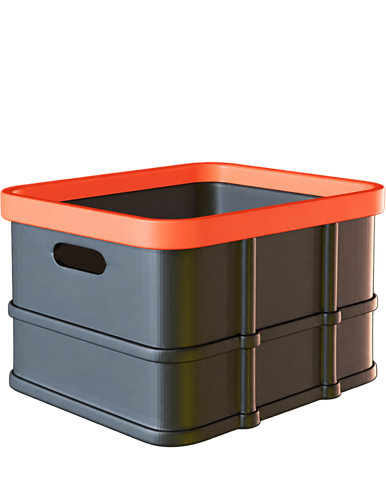
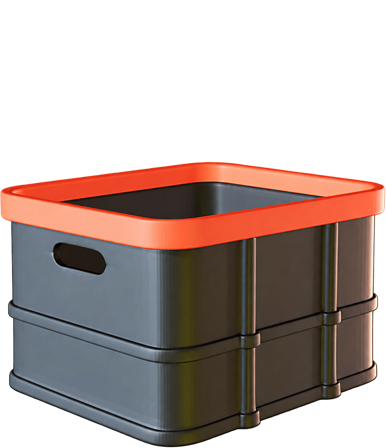
fix(move-request): 이사 유형 이미지와 날짜 선택 UI 보완

Changed region(s): [[0.0, 0.3125, 1.0, 0.75], [0.0, 0.75, 0.9948, 1.0], [0.0, 0.625, 0.7461, 0.8125]]

diff --git a/src/components/move-request/MoveDateStep.tsx b/src/components/move-request/MoveDateStep.tsx
@@ -9,14 +9,30 @@ import {
 import { ko } from '@daypicker/react/locale'
 import '@daypicker/react/style.css'
 import { Calendar, ChevronDown, ChevronLeft, ChevronRight } from 'lucide-react'
-import { useState } from 'react'
+import { useEffect, useRef, useState } from 'react'
 import Button from '../common/button/Button'
 
 export default function MoveDateStep() {
   const defaultClassNames = getDefaultClassNames()
+  const calendarRef = useRef<HTMLDivElement>(null)
 
   const [isOpen, setIsOpen] = useState(false)
   const [selectedDate, setSelectedDate] = useState<Date>()
+
+  useEffect(() => {
+    if (!isOpen) return
+
+    const handleClickOutside = (event: MouseEvent) => {
+      if (!calendarRef.current?.contains(event.target as Node)) {
+        setIsOpen(false)
+      }
+    }
+    document.addEventListener('mousedown', handleClickOutside)
+
+    return () => {
+      document.removeEventListener('mousedown', handleClickOutside)
+    }
+  }, [isOpen])
 
   function CalendarChevron({ orientation }: ChevronProps) {
     const Icon = orientation === 'left' ? ChevronLeft : ChevronRight
@@ -49,7 +65,7 @@ export default function MoveDateStep() {
   }
 
   return (
-    <div className="w-full md:relative md:w-100 md:shrink-0">
+    <div ref={calendarRef} className="w-full md:relative md:w-100 md:shrink-0">
       <button
         type="button"
         aria-haspopup="dialog"

diff --git a/src/components/move-request/MoveTypeStep.tsx b/src/components/move-request/MoveTypeStep.tsx
@@ -76,8 +76,8 @@ export default function MoveTypeStep() {
             <div className="mt-auto flex h-30 items-end justify-end md:w-full">
               <Image
                 src={imageSrc}
-                width={value === 'HOME' ? 100 : 120}
-                height={value === 'HOME' ? 100 : 120}
+                width={value === 'HOME' ? 110 : 120}
+                height={value === 'HOME' ? 110 : 120}
                 alt=""
               />
             </div>
